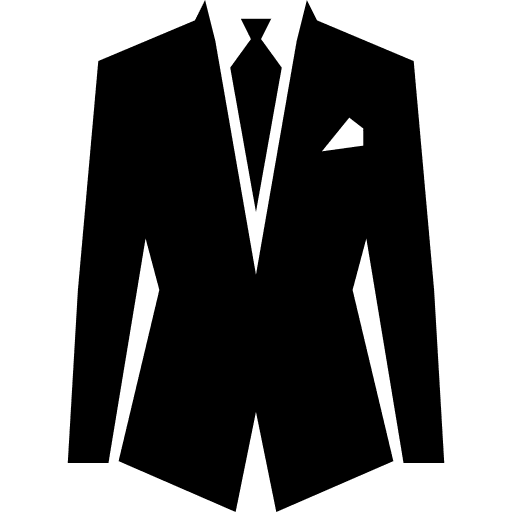
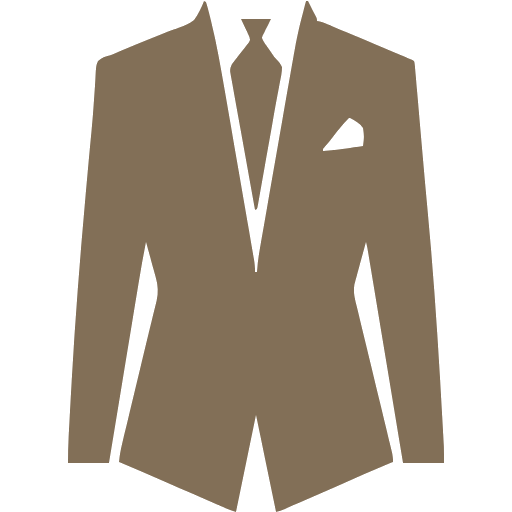
Add files via upload

diff --git a/index.html b/index.html
@@ -13,9 +13,9 @@
         <meta property="og:type" content="website"/>
         <meta property="og:title" content="¡Hola Irma & Leandro!"/>
         <meta property="og:description" content="Da click en el enlace para ver tu invitación."/>
-        <meta property="og:url" content="https://noscasamos.github.io/cristalyenrique/index.html"/>
+        <meta property="og:url" content="https://noscasamos.github.io/irmayleandro/index.html"/>
         <meta property="article:modified_time" content="2023-02-19T17:24:46+00:00"/>
-        <meta property="og:image" content="https://noscasamos.github.io/cristalyenrique/img/portadaEnviar.jpg"/>
+        <meta property="og:image" content="https://noscasamos.github.io/irmayleandro/img/portadaEnviar.jpg"/>
         <meta property="og:image:width" content="1080"/>
         <meta property="og:image:height" content="1080"/>
         <meta property="og:image:type" content="image/jpeg"/>
@@ -26,49 +26,49 @@
       "@graph": [
           {
               "@type": "Organization",
-              "@id": "https://noscasamos.github.io/cristalyenrique/index.html/#/schema/Organization/1",
+              "@id": "https://noscasamos.github.io/irmayleandro/index.html/#/schema/Organization/1",
               "name": "¡Hola Irma & Leandro!",
-              "url": "https://noscasamos.github.io/cristalyenrique/index.html",
+              "url": "https://noscasamos.github.io/irmayleandro/index.html",
               "sameAs": [
               ],
               "logo": {
                   "@type": "ImageObject",
-                  "@id": "https://noscasamos.github.io/cristalyenrique/img/portadaEnviar.jpg",
-                  "url": "https://noscasamos.github.io/cristalyenrique/img/portadaEnviar.jpg",
-                  "contentUrl": "https://noscasamos.github.io/cristalyenrique/img/portadaEnviar.jpg",
+                  "@id": "https://noscasamos.github.io/irmayleandro/img/portadaEnviar.jpg",
+                  "url": "https://noscasamos.github.io/irmayleandro/img/portadaEnviar.jpg",
+                  "contentUrl": "https://noscasamos.github.io/irmayleandro/img/portadaEnviar.jpg",
                   "width": 1080,
                   "height": 1080,
                   "caption": "Example Image"
               },
               "image": {
-                  "@id": "https://noscasamos.github.io/cristalyenrique/img/portadaEnviar.jpg"
+                  "@id": "https://noscasamos.github.io/irmayleandro/img/portadaEnviar.jpg"
               }
           },
           {
               "@type": "WebSite",
-              "@id": "https://noscasamos.github.io/cristalyenrique/index.html/#/schema/WebSite/1",
-              "url": "https://noscasamos.github.io/cristalyenrique/index.html",
+              "@id": "https://noscasamos.github.io/irmayleandro/index.html/#/schema/WebSite/1",
+              "url": "https://noscasamos.github.io/irmayleandro/index.html",
               "name": "¡Hola Irma & Leandro!",
               "publisher": {
-                  "@id": "https://noscasamos.github.io/cristalyenrique/index.html/#/schema/Organization/1"
+                  "@id": "https://noscasamos.github.io/irmayleandro/index.html/#/schema/Organization/1"
               },
               "potentialAction": {
                   "@type": "SearchAction",
-                  "target": "https://noscasamos.github.io/cristalyenrique/index.html/?s={search_term_string}",
+                  "target": "https://noscasamos.github.io/irmayleandro/index.html/?s={search_term_string}",
                   "query-input": "required name=search_term_string"
               }
           },
           {
               "@type": "WebPage",
-              "@id": "https://noscasamos.github.io/cristalyenrique/index.html",
-              "url": "https://noscasamos.github.io/cristalyenrique/index.html",
+              "@id": "https://noscasamos.github.io/irmayleandro/index.html",
+              "url": "https://noscasamos.github.io/irmayleandro/index.html",
               "inLanguage": "es",
               "name": "Example Page",
               "isPartOf": {
-                  "@id": "https://noscasamos.github.io/cristalyenrique/index.html/#/schema/WebSite/1"
+                  "@id": "https://noscasamos.github.io/irmayleandro/index.html/#/schema/WebSite/1"
               },
               "about": {
-                  "@id": "https://noscasamos.github.io/cristalyenrique/index.html/#/schema/Organization/1"
+                  "@id": "https://noscasamos.github.io/irmayleandro/index.html/#/schema/Organization/1"
               },
               "datePublished": "2015-09-14T08:13:22+00:00",
               "dateModified": "2019-03-28T12:46:37+00:00",
@@ -78,8 +78,8 @@
   }
         </script>
 
-         <link rel="alternate" type="application/rss+xml" title=" &raquo; Feed" href="https://noscasamos.github.io/cristalyenrique/index.html/feed/"/>
-        <link rel="alternate" type="application/rss+xml" title=" &raquo; Feed de los comentarios" href="https://noscasamos.github.io/cristalyenrique/index.html/comments/feed/"/>
+         <link rel="alternate" type="application/rss+xml" title=" &raquo; Feed" href="https://noscasamos.github.io/irmayleandro/index.html/feed/"/>
+        <link rel="alternate" type="application/rss+xml" title=" &raquo; Feed de los comentarios" href="https://noscasamos.github.io/irmayleandro/index.html/comments/feed/"/>
         
     <link rel="stylesheet" href="https://stackpath.bootstrapcdn.com/bootstrap/4.2.1/css/bootstrap.min.css" integrity="sha384-GJzZqFGwb1QTTN6wy59ffF1BuGJpLSa9DkKMp0DgiMDm4iYMj70gZWKYbI706tWS" crossorigin="anonymous">
     <link rel="stylesheet" href="css/index.css">
@@ -150,7 +150,7 @@
             </div></a>
                 <ul>
                      <div class="row justify-content-center">
-                         <input class="mt-3 col-7" type="text" value="https://noscasamos.github.io/cristalyenrique/pases/inicio1.html" id="target1" readonly>
+                         <input class="mt-3 col-7" type="text" value="https://noscasamos.github.io/irmayleandro/pases/inicio1.html" id="target1" readonly>
                     <button id="boton" class="example2 col-4 col-md-3 mt-3" onclick="copiar1()">Copiar</button>
                     <a id="boton3" class=" col-5 col-md-3 mt-3" onclick="personas1()">Ver</a>
                     </div>
@@ -172,7 +172,7 @@
             </div></a>
                 <ul>
                    <div class="row justify-content-center">
-                         <input class="mt-3 col-7" type="text" value="https://noscasamos.github.io/cristalyenrique/pases/inicio2.html" id="target2" readonly>
+                         <input class="mt-3 col-7" type="text" value="https://noscasamos.github.io/irmayleandro/pases/inicio2.html" id="target2" readonly>
                     <button id="boton" class="example2 col-4 col-md-3 mt-3" onclick="copiar2()">Copiar</button>
                     <a id="boton3" class=" col-5 col-md-3 mt-3" onclick="personas2()">Ver</a>
                     </div>
@@ -193,7 +193,7 @@
             </div></a>
                 <ul>
                    <div class="row justify-content-center">
-                         <input class="mt-3 col-7" type="text" value="https://noscasamos.github.io/cristalyenrique/pases/inicio3.html" id="target3" readonly>
+                         <input class="mt-3 col-7" type="text" value="https://noscasamos.github.io/irmayleandro/pases/inicio3.html" id="target3" readonly>
                     <button id="boton" class="example2 col-4 col-md-3 mt-3" onclick="copiar3()">Copiar</button>
                     <a id="boton3" class=" col-5 col-md-3 mt-3" onclick="personas3()">Ver</a>
                     </div>
@@ -213,7 +213,7 @@
             </div></a>
                 <ul>
                     <div class="row justify-content-center">
-                         <input class="mt-3 col-7" type="text" value="https://noscasamos.github.io/cristalyenrique/pases/inicio4.html" id="target4" readonly>
+                         <input class="mt-3 col-7" type="text" value="https://noscasamos.github.io/irmayleandro/pases/inicio4.html" id="target4" readonly>
                     <button id="boton" class="example2 col-4 col-md-3 mt-3" onclick="copiar4()">Copiar</button>
                     <a id="boton3" class=" col-5 col-md-3 mt-3" onclick="personas4()">Ver</a>
                     </div>
@@ -233,7 +233,7 @@
             </div></a>
                 <ul>
                     <div class="row justify-content-center">
-                         <input class="mt-3 col-7" type="text" value="https://noscasamos.github.io/cristalyenrique/pases/inicio5.html" id="target5" readonly>
+                         <input class="mt-3 col-7" type="text" value="https://noscasamos.github.io/irmayleandro/pases/inicio5.html" id="target5" readonly>
                     <button id="boton" class="example2 col-4 col-md-3 mt-3" onclick="copiar5()">Copiar</button>
                     <a id="boton3" class=" col-5 col-md-3 mt-3" onclick="personas5()">Ver</a>
                     </div>
@@ -253,7 +253,7 @@
             </div></a>
                 <ul>
                    <div class="row justify-content-center">
-                         <input class="mt-3 col-7" type="text" value="https://noscasamos.github.io/cristalyenrique/pases/inicio6.html" id="target6" readonly>
+                         <input class="mt-3 col-7" type="text" value="https://noscasamos.github.io/irmayleandro/pases/inicio6.html" id="target6" readonly>
                     <button id="boton" class="example2 col-4 col-md-3 mt-3" onclick="copiar6()">Copiar</button>
                     <a id="boton3" class=" col-5 col-md-3 mt-3" onclick="personas6()">Ver</a>
                     </div>
@@ -273,7 +273,7 @@
             </div></a>
                 <ul>
                    <div class="row justify-content-center">
-                         <input class="mt-3 col-7" type="text" value="https://noscasamos.github.io/cristalyenrique/pases/inicio7.html" id="target7" readonly>
+                         <input class="mt-3 col-7" type="text" value="https://noscasamos.github.io/irmayleandro/pases/inicio7.html" id="target7" readonly>
                     <button id="boton" class="example2 col-4 col-md-3 mt-3" onclick="copiar7()">Copiar</button>
                     <a id="boton3" class=" col-5 col-md-3 mt-3" onclick="personas7()">Ver</a>
                     </div>
@@ -293,7 +293,7 @@
             </div></a>
                 <ul>
                     <div class="row justify-content-center">
-                         <input class="mt-3 col-7" type="text" value="https://noscasamos.github.io/cristalyenrique/pases/inicio8.html" id="target8" readonly>
+                         <input class="mt-3 col-7" type="text" value="https://noscasamos.github.io/irmayleandro/pases/inicio8.html" id="target8" readonly>
                     <button id="boton" class="example2 col-4 col-md-3 mt-3" onclick="copiar8()">Copiar</button>
                     <a id="boton3" class=" col-5 col-md-3 mt-3" onclick="personas8()">Ver</a>
                     </div>
@@ -313,7 +313,7 @@
             </div></a>
                 <ul>
                     <div class="row justify-content-center">
-                         <input class="mt-3 col-7" type="text" value="https://noscasamos.github.io/cristalyenrique/pases/inicio9.html" id="target9" readonly>
+                         <input class="mt-3 col-7" type="text" value="https://noscasamos.github.io/irmayleandro/pases/inicio9.html" id="target9" readonly>
                     <button id="boton" class="example2 col-4 col-md-3 mt-3" onclick="copiar9()">Copiar</button>
                     <a id="boton3" class=" col-5 col-md-3 mt-3" onclick="personas9()">Ver</a>
                     </div>
@@ -333,7 +333,7 @@
             </div></a>
                 <ul>
                     <div class="row justify-content-center">
-                         <input class="mt-3 col-7" type="text" value="https://noscasamos.github.io/cristalyenrique/pases/inicio10.html" id="target10" readonly>
+                         <input class="mt-3 col-7" type="text" value="https://noscasamos.github.io/irmayleandro/pases/inicio10.html" id="target10" readonly>
                     <button id="boton" class="example2 col-4 col-md-3 mt-3" onclick="copiar10()">Copiar</button>
                     <a id="boton3" class=" col-5 col-md-3 mt-3" onclick="personas10()">Ver</a>
                     </div>
@@ -354,7 +354,7 @@
             </div></a>
                 <ul>
                     <div class="row justify-content-center">
-                         <input class="mt-3 col-7" type="text" value="https://noscasamos.github.io/cristalyenrique/pases/inicio11.html" id="target11" readonly>
+                         <input class="mt-3 col-7" type="text" value="https://noscasamos.github.io/irmayleandro/pases/inicio11.html" id="target11" readonly>
                     <button id="boton" class="example2 col-4 col-md-3 mt-3" onclick="copiar11()">Copiar</button>
                     <a id="boton3" class=" col-5 col-md-3 mt-3" onclick="personas11()">Ver</a>
                     </div>
@@ -375,7 +375,7 @@
             </div></a>
                 <ul>
                     <div class="row justify-content-center">
-                         <input class="mt-3 col-7" type="text" value="https://noscasamos.github.io/cristalyenrique/pases/inicio12.html" id="target12" readonly>
+                         <input class="mt-3 col-7" type="text" value="https://noscasamos.github.io/irmayleandro/pases/inicio12.html" id="target12" readonly>
                     <button id="boton" class="example2 col-4 col-md-3 mt-3" onclick="copiar12()">Copiar</button>
                     <a id="boton3" class=" col-5 col-md-3 mt-3" onclick="personas12()">Ver</a>
                     </div>

diff --git a/inicio.html b/inicio.html
@@ -12,9 +12,9 @@
         <meta property="og:type" content="website"/>
         <meta property="og:title" content="Irma & Leandro | ¡NUESTRA BODA!"/>
         <meta property="og:description" content="Te invitamos a ser parte de este momento tan especial."/>
-        <meta property="og:url" content="https://noscasamos.github.io/cristalyenrique/inicio.html"/>
+        <meta property="og:url" content="https://noscasamos.github.io/irmayleandro/inicio.html"/>
         <meta property="article:modified_time" content="2023-02-19T17:24:46+00:00"/>
-        <meta property="og:image" content="https://noscasamos.github.io/cristalyenrique/img/portadaMensaje.jpg"/>
+        <meta property="og:image" content="https://noscasamos.github.io/irmayleandro/img/portadaMensaje.jpg"/>
         <meta property="og:image:width" content="1080"/>
         <meta property="og:image:height" content="1400"/>
         <meta property="og:image:type" content="image/jpeg"/>
@@ -25,49 +25,49 @@
       "@graph": [
           {
               "@type": "Organization",
-              "@id": "https://noscasamos.github.io/cristalyenrique/inicio.html/#/schema/Organization/1",
+              "@id": "https://noscasamos.github.io/irmayleandro/inicio.html/#/schema/Organization/1",
               "name": "Irma & Leandro | ¡NUESTRA BODA!",
-              "url": "https://noscasamos.github.io/cristalyenrique/inicio.html",
+              "url": "https://noscasamos.github.io/irmayleandro/inicio.html",
               "sameAs": [
               ],
               "logo": {
                   "@type": "ImageObject",
-                  "@id": "https://noscasamos.github.io/cristalyenrique/img/portadaMensaje.jpg",
-                  "url": "https://noscasamos.github.io/cristalyenrique/img/portadaMensaje.jpg",
-                  "contentUrl": "https://noscasamos.github.io/cristalyenrique/img/portadaMensaje.jpg",
+                  "@id": "https://noscasamos.github.io/irmayleandro/img/portadaMensaje.jpg",
+                  "url": "https://noscasamos.github.io/irmayleandro/img/portadaMensaje.jpg",
+                  "contentUrl": "https://noscasamos.github.io/irmayleandro/img/portadaMensaje.jpg",
                   "width": 1080,
                   "height": 1400,
                   "caption": "Example Image"
               },
               "image": {
-                  "@id": "https://noscasamos.github.io/cristalyenrique/img/portadaMensaje.jpg"
+                  "@id": "https://noscasamos.github.io/irmayleandro/img/portadaMensaje.jpg"
               }
           },
           {
               "@type": "WebSite",
-              "@id": "https://noscasamos.github.io/cristalyenrique/inicio.html/#/schema/WebSite/1",
-              "url": "https://noscasamos.github.io/cristalyenrique/inicio.html",
+              "@id": "https://noscasamos.github.io/irmayleandro/inicio.html/#/schema/WebSite/1",
+              "url": "https://noscasamos.github.io/irmayleandro/inicio.html",
               "name": "Irma & Leandro | ¡NUESTRA BODA!",
               "publisher": {
-                  "@id": "https://noscasamos.github.io/cristalyenrique/inicio.html/#/schema/Organization/1"
+                  "@id": "https://noscasamos.github.io/irmayleandro/inicio.html/#/schema/Organization/1"
               },
               "potentialAction": {
                   "@type": "SearchAction",
-                  "target": "https://noscasamos.github.io/cristalyenrique/inicio.html/?s={search_term_string}",
+                  "target": "https://noscasamos.github.io/irmayleandro/inicio.html/?s={search_term_string}",
                   "query-input": "required name=search_term_string"
               }
           },
           {
               "@type": "WebPage",
-              "@id": "https://noscasamos.github.io/cristalyenrique/inicio.html",
-              "url": "https://noscasamos.github.io/cristalyenrique/inicio.html",
+              "@id": "https://noscasamos.github.io/irmayleandro/inicio.html",
+              "url": "https://noscasamos.github.io/irmayleandro/inicio.html",
               "inLanguage": "es",
               "name": "Example Page",
               "isPartOf": {
-                  "@id": "https://noscasamos.github.io/cristalyenrique/inicio.html/#/schema/WebSite/1"
+                  "@id": "https://noscasamos.github.io/irmayleandro/inicio.html/#/schema/WebSite/1"
               },
               "about": {
-                  "@id": "https://noscasamos.github.io/cristalyenrique/inicio.html/#/schema/Organization/1"
+                  "@id": "https://noscasamos.github.io/irmayleandro/inicio.html/#/schema/Organization/1"
               },
               "datePublished": "2015-09-14T08:13:22+00:00",
               "dateModified": "2019-03-28T12:46:37+00:00",
@@ -77,8 +77,8 @@
   }
         </script>
 
-         <link rel="alternate" type="application/rss+xml" title=" &raquo; Feed" href="https://noscasamos.github.io/cristalyenrique/inicio.html/feed/"/>
-        <link rel="alternate" type="application/rss+xml" title=" &raquo; Feed de los comentarios" href="https://noscasamos.github.io/cristalyenrique/inicio.html/comments/feed/"/>
+         <link rel="alternate" type="application/rss+xml" title=" &raquo; Feed" href="https://noscasamos.github.io/irmayleandro/inicio.html/feed/"/>
+        <link rel="alternate" type="application/rss+xml" title=" &raquo; Feed de los comentarios" href="https://noscasamos.github.io/irmayleandro/inicio.html/comments/feed/"/>
 
     <link rel="stylesheet" href="https://stackpath.bootstrapcdn.com/bootstrap/4.2.1/css/bootstrap.min.css" integrity="sha384-GJzZqFGwb1QTTN6wy59ffF1BuGJpLSa9DkKMp0DgiMDm4iYMj70gZWKYbI706tWS" crossorigin="anonymous">
     <link rel="stylesheet" href="css/demo003.css">
@@ -585,7 +585,7 @@
         </div>   
 
         </div>
-        <h5 class='hombres col-lg-12 mt-3 mb-4 text-center mr-5'>Vestido Largo y Traje Oscuro.</h5>
+        <h5 class='hombres col-lg-12 mt-3 mb-4 text-center mr-5' style="">Vestido Largo y Traje Oscuro.</h5>
      </div>
 
 

diff --git a/css/demo003.css b/css/demo003.css
@@ -387,7 +387,7 @@ font-family: 'Tangerine', cursive;
 .simply-amount {
   display: block;
   font-size: 25px;
-  color:#3f4727;
+  color:#826f57;
   font-weight: 1000;
    font-family: 'Cantata One', serif;
 }
@@ -495,7 +495,7 @@ box-shadow: 0px 0px 30px -4px rgba(0,0,0,0.75);
   
     font-family: 'Cantata One', serif;
   font-size: 13px;
-  color:#3f4727;
+  color:#826f57;
   background: linear-gradient(to left, #ede7df, #ede7df);
   
 height:40px; 
@@ -510,7 +510,7 @@ letter-spacing: 3px;
   
     font-family: 'Cantata One', serif;
   font-size: 13px;
-  color:#3f4727;
+  color:#826f57;
   background: linear-gradient(to right, #ede7df, #ede7df);
 height:40px; 
 display:flex;
@@ -637,7 +637,7 @@ text-shadow: 0px 0px 0px;
 
 }
 .lluviaSobres{
-  color:#3f4727;  
+  color:#826f57;  
   font-family: 'Updock', cursive; 
   font-size: 35px;
 }
@@ -648,7 +648,7 @@ text-shadow: 0px 0px 0px;
 }
 .iconoLluviaSobres{
   font-size: 40px; 
-  color:#3f4727;
+  color:#826f57;
 
 }
 @media only screen and (max-width: 380px) and (min-width: 320px)  {
@@ -775,7 +775,7 @@ box-shadow: 0px 0px 30px -4px rgba(0,0,0,0.75);
   
     font-family: 'Cantata One', serif;
   font-size: 13px;
-  color:#3f4727;
+  color:#826f57;
   background: linear-gradient(to left, #ede7df, #ede7df); 
 height:40px; 
 display:flex;
@@ -789,7 +789,7 @@ letter-spacing: 3px;
   
     font-family: 'Cantata One', serif;
   font-size: 13px;
-  color:#3f4727;
+  color:#826f57;
   background: linear-gradient(to right, #ede7df, #ede7df);
 height:40px; 
 display:flex;
@@ -863,7 +863,7 @@ box-shadow: 0px 0px 30px -4px rgba(0,0,0,0.75);
   
     font-family: 'Cantata One', serif;
   font-size: 10px;
-  color:#3f4727;
+  color:#826f57;
   background: linear-gradient(to left, #ede7df, #ede7df);
 height:40px; 
 display:flex;
@@ -877,7 +877,7 @@ letter-spacing: 3px;
   
     font-family: 'Cantata One', serif;
   font-size: 10px;
-  color:#3f4727;
+  color:#826f57;
   background: linear-gradient(to right, #ede7df, #ede7df);
 height:40px; 
 display:flex;
